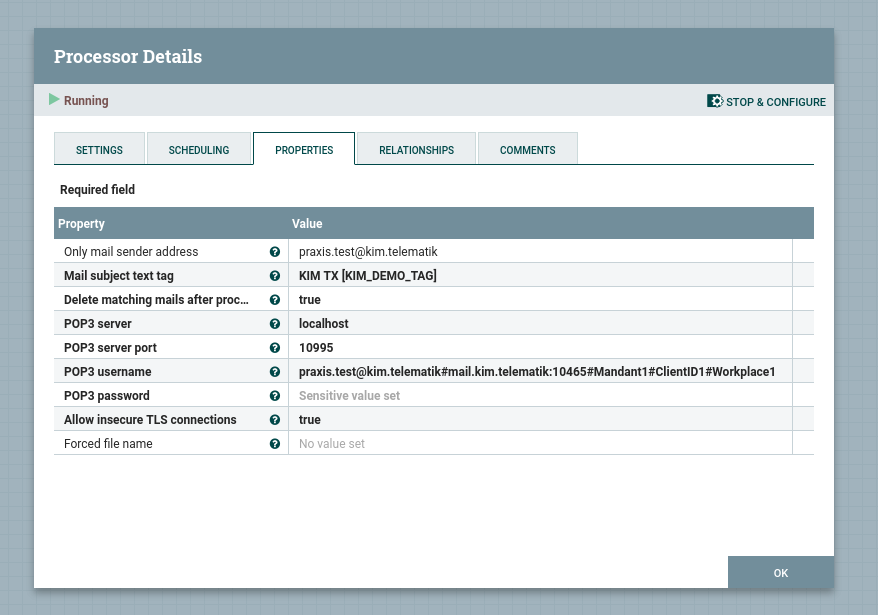
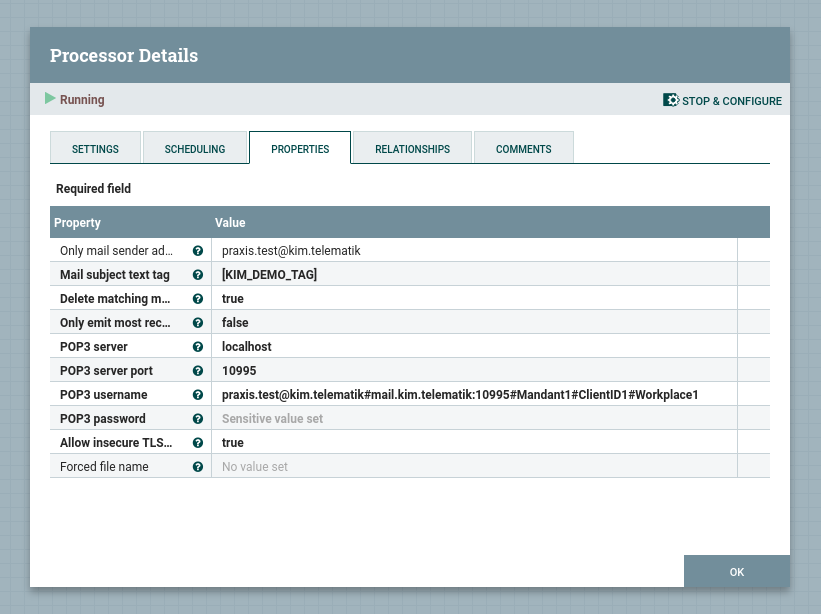
Update receiver to emit multiple files

diff --git a/uaux-kim-rx/nifi-kim-rx-processors/src/main/java/de/uni_a/misit/nifi/processors/kim_rx/KIMRXProcessor.java b/uaux-kim-rx/nifi-kim-rx-processors/src/main/java/de/uni_a/misit/nifi/processors/kim_rx/KIMRXProcessor.java
@@ -37,14 +37,19 @@ import org.apache.nifi.processor.util.StandardValidators;
 
 import java.io.IOException;
 import java.io.InputStream;
+import java.text.DateFormat;
+import java.text.ParseException;
 import java.util.*;
 import java.util.regex.Pattern;
 
 @Tags({"KIM", "Telematik", "KoPS"})
-@CapabilityDescription("Polls a POP3 server mail and forwards the latest tagged mail as a flow file")
+@CapabilityDescription("Polls a POP3 server mail and forwards the tagged mails as flow files")
 @SeeAlso({})
-@ReadsAttributes({@ReadsAttribute(attribute="", description="")})
-@WritesAttributes({@WritesAttribute(attribute="", description="")})
+@ReadsAttributes({@ReadsAttribute(attribute="ignore_mails_until", description="Ignore all mails with a sent date equal or older than provided. The date is parsed by the local DateInstance object. Such mails are not affected by delete_mails.")})
+@WritesAttributes({
+    @WritesAttribute(attribute="filename", description="Filename of the attached content"),
+    @WritesAttribute(attribute="sent", description="Sent date of the received mail, default formatting by local DateInstance"),
+})
 public class KIMRXProcessor extends AbstractProcessor {
     // Regex from https://stackoverflow.com/a/201378
     // private static final Pattern EMAIL_ADDRESS_REGEX_PATTERN = Pattern.compile("(?:[a-z0-9!#$%&'*+/=?^_`{|}~-]+(?:\\.[a-z0-9!#$%&'*+/=?^_`{|}~-]+)*|\"(?:[\\x01-\\x08\\x0b\\x0c\\x0e-\\x1f\\x21\\x23-\\x5b\\x5d-\\x7f]|\\\\[\\x01-\\x09\\x0b\\x0c\\x0e-\\x7f])*\")@(?:(?:[a-z0-9](?:[a-z0-9-]*[a-z0-9])?\\.)+[a-z0-9](?:[a-z0-9-]*[a-z0-9])?|\\[(?:(?:(2(5[0-5]|[0-4][0-9])|1[0-9][0-9]|[1-9]?[0-9]))\\.){3}(?:(2(5[0-5]|[0-4][0-9])|1[0-9][0-9]|[1-9]?[0-9])|[a-z0-9-]*[a-z0-9]:(?:[\\x01-\\x08\\x0b\\x0c\\x0e-\\x1f\\x21-\\x5a\\x53-\\x7f]|\\\\[\\x01-\\x09\\x0b\\x0c\\x0e-\\x7f])+)\\])");
@@ -67,7 +72,7 @@ public class KIMRXProcessor extends AbstractProcessor {
             .displayName("Mail subject text tag")
             .description("Only mails with provided tag will be considered, e.g. [STUDY_KIM1]")
             .required(true)
-            .defaultValue("KIM TX [KIM_DEMO_TAG]")
+            .defaultValue("[KIM_DEMO_TAG]")
             .addValidator(StandardValidators.NON_BLANK_VALIDATOR)
             .build();
 
@@ -75,6 +80,16 @@ public class KIMRXProcessor extends AbstractProcessor {
             .Builder().name("KIMRX_DELETE_MAILS")
             .displayName("Delete matching mails after processing")
             .description("Delete all matching mails on the POP3 server after the mails have been read")
+            .allowableValues("true", "false")
+            .defaultValue("true")
+            .addValidator(StandardValidators.BOOLEAN_VALIDATOR)
+            .required(true)
+            .build();
+
+    public static final PropertyDescriptor KIMRX_EMIT_MOST_RECENT_ONLY = new PropertyDescriptor
+            .Builder().name("KIMRX_EMIT_MOST_RECENT_ONLY")
+            .displayName("Only emit most recent file")
+            .description("If true, only the latest mail attachment content is emitted. If disabled, multiple flow files are emitted.")
             .allowableValues("true", "false")
             .defaultValue("true")
             .addValidator(StandardValidators.BOOLEAN_VALIDATOR)
@@ -140,6 +155,7 @@ public class KIMRXProcessor extends AbstractProcessor {
             .Builder()
             .name("no-new-mail")
             .description("No new mail with updated files were found.")
+            .autoTerminateDefault(true)
             .build();
     public static final Relationship RELATIONSHIP_FAILURE = new Relationship
             .Builder()
@@ -156,6 +172,7 @@ public class KIMRXProcessor extends AbstractProcessor {
         descriptors.add(KIMRX_MAIL_FROM);
         descriptors.add(KIMRX_TAG);
         descriptors.add(KIMRX_DELETE_MAILS);
+        descriptors.add(KIMRX_EMIT_MOST_RECENT_ONLY);
         descriptors.add(KIMRX_POP3_SERVER_HOST);
         descriptors.add(KIMRX_POP3_SERVER_PORT);
         descriptors.add(KIMRX_POP3_SERVER_AUTH_USERNAME);
@@ -188,15 +205,15 @@ public class KIMRXProcessor extends AbstractProcessor {
 
     @Override
     public void onTrigger(final ProcessContext context, final ProcessSession session) {
-        FlowFile flowFile = session.get();
-        if (flowFile == null) {
-            flowFile = session.create();
-        }
+        // We do not need the incoming session flow file because we emit our own flow files here.
+        // Only for the case of no new mails or errors we re-use the existing flow file.
+        FlowFile session_flowFile = session.get();
 
-        // Obtain descriptor settings
+        // obtain descriptor settings
         String mail_from = context.getProperty(KIMRX_MAIL_FROM).getValue();
         String mail_tag = context.getProperty(KIMRX_TAG).getValue();
         boolean delete_mails = context.getProperty(KIMRX_DELETE_MAILS).asBoolean();
+        boolean most_recent_only = context.getProperty(KIMRX_EMIT_MOST_RECENT_ONLY).asBoolean();
         String forced_attachment_filename = context.getProperty(KIMRX_MAIL_ATTACH_FORCE_FILENAME).getValue();
 
         String pop3_host = context.getProperty(KIMRX_POP3_SERVER_HOST).getValue();
@@ -204,6 +221,15 @@ public class KIMRXProcessor extends AbstractProcessor {
         String auth_username = context.getProperty(KIMRX_POP3_SERVER_AUTH_USERNAME).getValue();
         String auth_password = context.getProperty(KIMRX_POP3_SERVER_AUTH_PASSWORD).getValue();
         boolean allow_insecure_tls = context.getProperty(KIMRX_POP3_SERVER_AUTH_ALLOW_INSECURE_TLS_CONTEXT).asBoolean();
+
+        // setup date and get potential date threshold; Older mails are not deleted even if delete_mails is enabled!
+        DateFormat dateInstance = DateFormat.getDateInstance();
+        Date ignore_until = null;
+        try{
+            ignore_until = dateInstance.parse(
+                session_flowFile.getAttribute("ignore_mails_until")
+            );
+        } catch (NullPointerException | ParseException ignored) { }
 
         // init tag pattern for match
         Pattern tag_pattern = Pattern.compile(Pattern.quote(mail_tag));
@@ -257,6 +283,14 @@ public class KIMRXProcessor extends AbstractProcessor {
                     continue;
                 }
 
+                if (msg.getSentDate() == null) {
+                    // ignore mails without sent date header
+                    continue;
+                } else if (ignore_until != null && !msg.getSentDate().after(ignore_until)){
+                    // message is older than the provided threshold
+                    continue;
+                }
+
                 if (POP3MessageUtil.findFileAttachmentFromMimeBodyPart(msg.getContent()) == null) {
                     // the message lacks an attachment
                     continue;
@@ -267,11 +301,12 @@ public class KIMRXProcessor extends AbstractProcessor {
 
             if (matches.isEmpty()) {
                 // we signal a no-new-mails event
-                session.transfer(flowFile, RELATIONSHIP_NO_NEW_MAIL);
+                session.transfer(session.create(), RELATIONSHIP_NO_NEW_MAIL);
             } else {
+                // sort from oldest (0) to recent (n)
                 matches.sort((m1, m2) -> {
                     try {
-                        return - (m1.getSentDate().compareTo(m2.getSentDate()));
+                        return m1.getSentDate().compareTo(m2.getSentDate());
                     } catch (MessagingException e) {
                         return 0;
                     }
@@ -279,8 +314,10 @@ public class KIMRXProcessor extends AbstractProcessor {
 
                 for (int i = 0; i<matches.size(); i++) {
                     Message msg = matches.get(i);
-                    if (i == 0) {
-                        // we have the most recent flow file
+                    if (most_recent_only && i < (matches.size() - 1)) {
+                        // We only want to emit the most recent mail, so we ignore the previous mails
+                    } else {
+                        // Extract the attachment
                         MimeBodyPart attachment_part = POP3MessageUtil.findFileAttachmentFromMimeBodyPart(msg.getContent());
                         String filename = attachment_part.getFileName();
                         if (filename == null && forced_attachment_filename != null) {
@@ -289,7 +326,8 @@ public class KIMRXProcessor extends AbstractProcessor {
                             filename = "data.bin";
                         }
 
-                        // write to flow file
+                        // write to new flow file
+                        FlowFile flowFile = session.create();
                         session.write(flowFile, outputStream -> {
                             try {
                                 InputStream is = attachment_part.getInputStream();
@@ -302,27 +340,38 @@ public class KIMRXProcessor extends AbstractProcessor {
                                 throw new RuntimeException(e);
                             }
                         });
-                        // set filename
+
+                        // set filename and sent date
                         session.putAttribute(flowFile, "filename", filename);
+                        session.putAttribute(flowFile, "sent", DateFormat.getDateInstance().format(msg.getSentDate()));
+                        // emit the flow file
+                        session.transfer(flowFile, RELATIONSHIP_SUCCESS);
                     }
+
                     // remove mails if desired
                     if (delete_mails) {
                         msg.setFlag(Flags.Flag.DELETED, true);
                     }
                 }
-                session.transfer(flowFile, RELATIONSHIP_SUCCESS);
             }
 
             if (inbox.isOpen()) inbox.close();
             if (store.isConnected()) store.close();
 
         } catch (MessagingException | IOException e) {
+            // signal a failure event
+            FlowFile flowFile = session.create();
             session.penalize(flowFile);
             session.transfer(flowFile, RELATIONSHIP_FAILURE);
         } finally {
             // close open sessions
             try { if (inbox != null && inbox.isOpen()) { inbox.close(true);} } catch (MessagingException ignored) {}
             try { if (store != null && store.isConnected()) { store.close(); } } catch (MessagingException ignored) {}
+        }
+
+        // cleanup session flow file if it was provided
+        if (session_flowFile != null) {
+            session.remove(session_flowFile);
         }
 
         session.commit();

diff --git a/uaux-kim-tx/nifi-kim-tx-processors/src/main/java/de/uni_a/misit/nifi/processors/kim_tx/KIMTXProcessor.java b/uaux-kim-tx/nifi-kim-tx-processors/src/main/java/de/uni_a/misit/nifi/processors/kim_tx/KIMTXProcessor.java
@@ -47,8 +47,8 @@ import static de.uni_a.misit.nifi.processors.kim_tx.SMTPMailUtil.sendMailMessage
 @Tags({"KIM", "Telematik", "KoPS"})
 @CapabilityDescription("Sends an incoming datasource via SMTP to a KIM endpoint")
 @SeeAlso({})
-@ReadsAttributes({@ReadsAttribute(attribute="", description="")})
-@WritesAttributes({@WritesAttribute(attribute="", description="")})
+@ReadsAttributes({@ReadsAttribute(attribute="filename", description="Name of file for mail attachment")})
+@WritesAttributes({})
 public class KIMTXProcessor extends AbstractProcessor {
     // Regex from https://stackoverflow.com/a/201378
     // private static final Pattern EMAIL_ADDRESS_REGEX_PATTERN = Pattern.compile("(?:[a-z0-9!#$%&'*+/=?^_`{|}~-]+(?:\\.[a-z0-9!#$%&'*+/=?^_`{|}~-]+)*|\"(?:[\\x01-\\x08\\x0b\\x0c\\x0e-\\x1f\\x21\\x23-\\x5b\\x5d-\\x7f]|\\\\[\\x01-\\x09\\x0b\\x0c\\x0e-\\x7f])*\")@(?:(?:[a-z0-9](?:[a-z0-9-]*[a-z0-9])?\\.)+[a-z0-9](?:[a-z0-9-]*[a-z0-9])?|\\[(?:(?:(2(5[0-5]|[0-4][0-9])|1[0-9][0-9]|[1-9]?[0-9]))\\.){3}(?:(2(5[0-5]|[0-4][0-9])|1[0-9][0-9]|[1-9]?[0-9])|[a-z0-9-]*[a-z0-9]:(?:[\\x01-\\x08\\x0b\\x0c\\x0e-\\x1f\\x21-\\x5a\\x53-\\x7f]|\\\\[\\x01-\\x09\\x0b\\x0c\\x0e-\\x7f])+)\\])");
